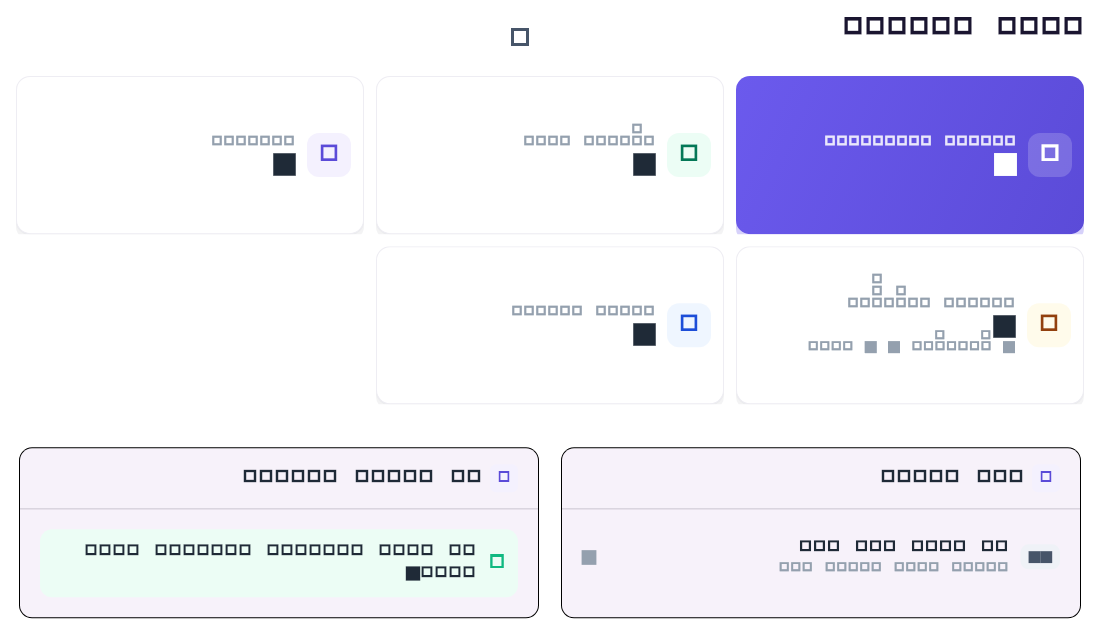
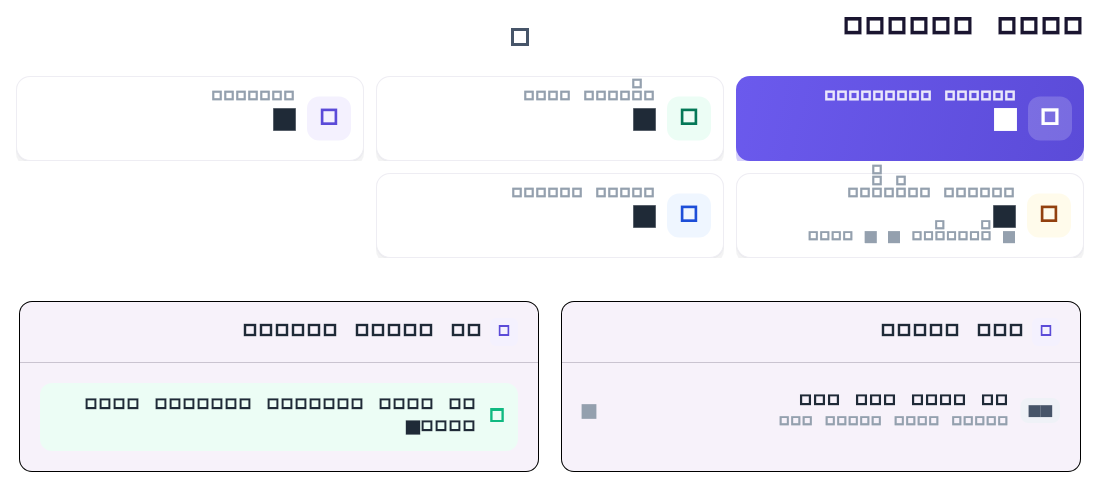
fix(dashboard): tiles sized to content, sales tile same height with no data
Owner 2026-10-02: fixed-aspect grid left white bands and the sales tile
(no sub line yet) rendered shorter (92 vs 119 px). AutoHeightGrid rows +
an always-laid-out sub line: every tile 111 px at 360 px, equal heights.

diff --git a/test/cards_totals_day_month_picker_test.dart b/test/cards_totals_day_month_picker_test.dart
@@ -16,29 +16,39 @@ void main() {
   testWidgets('day tile opens a date picker and reports the picked day',
       (tester) async {
     String? day;
-    await tester.pumpWidget(_wrap(CardsListTotals(
-      totals: CardBatchOperationsTotals(usedToday: 3, valueToday: 15),
-      onPickDay: (d) => day = d,
-      onPickMonth: (_) {},
-    )));
+    await tester.pumpWidget(
+      _wrap(
+        CardsListTotals(
+          totals: CardBatchOperationsTotals(usedToday: 3, valueToday: 15),
+          onPickDay: (d) => day = d,
+          onPickMonth: (_) {},
+        ),
+      ),
+    );
     await tester.tap(find.text('بطاقات اليوم'));
     await tester.pumpAndSettle();
     expect(find.byType(DatePickerDialog), findsOneWidget);
     await tester.tap(find.text('OK'));
     await tester.pumpAndSettle();
     final now = DateTime.now();
-    expect(day,
-        '${now.year}-${now.month.toString().padLeft(2, '0')}-${now.day.toString().padLeft(2, '0')}');
+    expect(
+      day,
+      '${now.year}-${now.month.toString().padLeft(2, '0')}-${now.day.toString().padLeft(2, '0')}',
+    );
   });
 
   testWidgets('month tile opens a month grid and reports YYYY-MM',
       (tester) async {
     String? month;
-    await tester.pumpWidget(_wrap(CardsListTotals(
-      totals: CardBatchOperationsTotals(usedMonth: 9, valueMonth: 45),
-      onPickDay: (_) {},
-      onPickMonth: (m) => month = m,
-    )));
+    await tester.pumpWidget(
+      _wrap(
+        CardsListTotals(
+          totals: CardBatchOperationsTotals(usedMonth: 9, valueMonth: 45),
+          onPickDay: (_) {},
+          onPickMonth: (m) => month = m,
+        ),
+      ),
+    );
     await tester.tap(find.text('بطاقات الشهر'));
     await tester.pumpAndSettle();
     expect(find.text('اختر الشهر'), findsOneWidget);
@@ -48,11 +58,16 @@ void main() {
   });
 
   testWidgets('a picked past day/month is named on the tile', (tester) async {
-    await tester.pumpWidget(_wrap(CardsListTotals(
-      totals: CardBatchOperationsTotals(day: '2026-09-10', month: '2026-08'),
-      onPickDay: (_) {},
-      onPickMonth: (_) {},
-    )));
+    await tester.pumpWidget(
+      _wrap(
+        CardsListTotals(
+          totals:
+              CardBatchOperationsTotals(day: '2026-09-10', month: '2026-08'),
+          onPickDay: (_) {},
+          onPickMonth: (_) {},
+        ),
+      ),
+    );
     expect(find.text('بطاقات 2026-09-10'), findsOneWidget);
     expect(find.text('بطاقات أغسطس 2026'), findsOneWidget);
   });
@@ -62,9 +77,13 @@ void main() {
     tester.view.physicalSize = const Size(360, 800);
     tester.view.devicePixelRatio = 1;
     addTearDown(tester.view.reset);
-    await tester.pumpWidget(_wrap(CardsListTotals(
-      totals: CardBatchOperationsTotals(configuredValue: 102815.4),
-    )));
+    await tester.pumpWidget(
+      _wrap(
+        CardsListTotals(
+          totals: CardBatchOperationsTotals(configuredValue: 102815.4),
+        ),
+      ),
+    );
     expect(find.text('قيمة كل كروت الحزم'), findsOneWidget);
     expect(find.text('بسعر البيع، المباع وغير المباع'), findsOneWidget);
     final value = tester.widget<Text>(find.textContaining('102,815.4'));
@@ -75,19 +94,24 @@ void main() {
   testWidgets('«المبيعات» tile picks a period and shows its sales',
       (tester) async {
     String? from, to;
-    await tester.pumpWidget(_wrap(CardsListTotals(
-      totals: CardBatchOperationsTotals(
-          usedRange: 7,
-          valueRange: 35,
-          rangeFrom: '2026-09-01',
-          rangeTo: '2026-09-07'),
-      onPickDay: (_) {},
-      onPickMonth: (_) {},
-      onPickRange: (f, t) {
-        from = f;
-        to = t;
-      },
-    )));
+    await tester.pumpWidget(
+      _wrap(
+        CardsListTotals(
+          totals: CardBatchOperationsTotals(
+            usedRange: 7,
+            valueRange: 35,
+            rangeFrom: '2026-09-01',
+            rangeTo: '2026-09-07',
+          ),
+          onPickDay: (_) {},
+          onPickMonth: (_) {},
+          onPickRange: (f, t) {
+            from = f;
+            to = t;
+          },
+        ),
+      ),
+    );
     expect(find.text('مبيعات 09-01 ← 09-07'), findsOneWidget);
     expect(find.text('7 بطاقة'), findsOneWidget);
     await tester.tap(find.text('مبيعات 09-01 ← 09-07'));
@@ -105,9 +129,13 @@ void main() {
 
   testWidgets('older server (no used_range) keeps the total-value tile',
       (tester) async {
-    await tester.pumpWidget(_wrap(CardsListTotals(
-      totals: CardBatchOperationsTotals(configuredValue: 10),
-    )));
+    await tester.pumpWidget(
+      _wrap(
+        CardsListTotals(
+          totals: CardBatchOperationsTotals(configuredValue: 10),
+        ),
+      ),
+    );
     expect(find.text('قيمة كل كروت الحزم'), findsOneWidget);
   });
 }

diff --git a/lib/features/dashboard/presentation/dashboard_screen.dart b/lib/features/dashboard/presentation/dashboard_screen.dart
@@ -11,6 +11,7 @@ import '../../../core/theme/app_palette.dart';
 import '../../../core/theme/tokens.dart';
 import '../../../core/theme/typography.dart';
 import '../../../shared/widgets/app_card.dart';
+import '../../../shared/widgets/auto_height_grid.dart';
 import '../../../shared/widgets/hub_error_state.dart';
 import '../../../shared/widgets/page_header.dart';
 import '../data/dashboard_repository.dart';
@@ -843,21 +844,17 @@ class _MetricGrid extends StatelessWidget {
             : c.maxWidth >= 760
                 ? 3
                 : 2;
-        return GridView.count(
-          shrinkWrap: true,
-          physics: const NeverScrollableScrollPhysics(),
-          crossAxisCount: cols,
-          mainAxisSpacing: AppTokens.s12,
-          crossAxisSpacing: AppTokens.s12,
-          // Denser tiles: the compact layout (icon+label row, then value/sub)
-          // needs far less height than the old stacked one, so widen the ratio
-          // to cut the empty white space the square cells used to leave.
-          childAspectRatio: c.maxWidth < 520
-              ? 1.3
-              : c.maxWidth < 760
-                  ? 1.6
-                  : 2.2,
-          children: tiles,
+        // Owner 2026-10-02: tiles are as tall as their content (no fixed
+        // aspect ratio → no empty white band); each row shares the tallest
+        // tile's height so the sales tile never looks shorter.
+        final tileWidth = (c.maxWidth - AppTokens.s12 * (cols - 1)) / cols;
+        return _TileCompact(
+          compact: tileWidth < 180,
+          child: AutoHeightGrid(
+            columns: cols,
+            spacing: AppTokens.s12,
+            children: tiles,
+          ),
         );
       },
     );
@@ -896,6 +893,21 @@ class _TapCard extends StatelessWidget {
       ),
     );
   }
+}
+
+/// Tells the metric tiles whether they are in the narrow (phone) layout —
+/// decided once by the grid, since a LayoutBuilder inside a tile breaks the
+/// intrinsic sizing that lets each row fit its content.
+class _TileCompact extends InheritedWidget {
+  const _TileCompact({required this.compact, required super.child});
+  final bool compact;
+
+  static bool of(BuildContext context) =>
+      context.dependOnInheritedWidgetOfExactType<_TileCompact>()?.compact ??
+      false;
+
+  @override
+  bool updateShouldNotify(_TileCompact old) => old.compact != compact;
 }
 
 class _MetricTile extends StatelessWidget {
@@ -963,9 +975,9 @@ class _MetricTile extends StatelessWidget {
               ]
             : p.shCard,
       ),
-      child: LayoutBuilder(
-        builder: (context, constraints) {
-          final compact = constraints.maxWidth < 180;
+      child: Builder(
+        builder: (context) {
+          final compact = _TileCompact.of(context);
           final iconBox = Container(
             width: compact ? 36 : 44,
             height: compact ? 36 : 44,
@@ -997,18 +1009,18 @@ class _MetricTile extends StatelessWidget {
               fontSize: 22,
             ),
           );
-          final subWidget = sub != null
-              ? Text(
-                  sub!,
-                  maxLines: 1,
-                  overflow: TextOverflow.ellipsis,
-                  style: AppTypography.caption.copyWith(
-                    color: primary
-                        ? Colors.white.withValues(alpha: 0.78)
-                        : p.textMuted,
-                  ),
-                )
-              : null;
+          // The sub line is always laid out (blank when there is nothing to
+          // say) so every tile — the sales one with no data yet included —
+          // keeps the same height.
+          final subWidget = Text(
+            sub ?? ' ',
+            maxLines: 1,
+            overflow: TextOverflow.ellipsis,
+            style: AppTypography.caption.copyWith(
+              color:
+                  primary ? Colors.white.withValues(alpha: 0.78) : p.textMuted,
+            ),
+          );
 
           // Compact (phone): icon + label share the top row, the number and
           // details sit just below with tight spacing — no filler gap.
@@ -1029,10 +1041,8 @@ class _MetricTile extends StatelessWidget {
                   ),
                   const SizedBox(height: AppTokens.s8),
                   valueWidget,
-                  if (subWidget != null) ...[
-                    const SizedBox(height: 2),
-                    subWidget,
-                  ],
+                  const SizedBox(height: 2),
+                  subWidget,
                 ],
               ),
             );
@@ -1045,7 +1055,7 @@ class _MetricTile extends StatelessWidget {
               labelWidget,
               const SizedBox(height: 2),
               valueWidget,
-              if (subWidget != null) subWidget,
+              subWidget,
             ],
           );
           return Padding(

diff --git a/test/dashboard_screen_test.dart b/test/dashboard_screen_test.dart
@@ -89,7 +89,8 @@ void main() {
     // Alerts card + messages.
     expect(find.text('ما يحتاج انتباه'), findsOneWidget);
     expect(find.text('5 مشترك ينتهي اشتراكهم خلال 3 أيام.'), findsOneWidget);
-    expect(find.text('لا توجد كروت متاحة — وَلِّد دفعة جديدة.'), findsOneWidget);
+    expect(
+        find.text('لا توجد كروت متاحة — وَلِّد دفعة جديدة.'), findsOneWidget,);
 
     // Subscriber attention + top plan surfaced.
     expect(find.text('متابعة المشتركين'), findsOneWidget);
@@ -128,7 +129,8 @@ void main() {
     }
   });
 
-  testWidgets('hides the sales_today tile when the server omits it (old '
+  testWidgets(
+      'hides the sales_today tile when the server omits it (old '
       'server)', (tester) async {
     await _pumpDashboard(
       tester,
@@ -158,17 +160,54 @@ void main() {
     final metrics = DashboardMetrics.fromJson({
       'subscribers': {'total': 200, 'active': 150, 'expired': 12},
       'cards': {'total': 5000, 'used': 331, 'available': 4669, 'batches': 9},
-      'plans': {'total': 7, 'enabled': 6, 'top': {'name': 'باقة الذهبية', 'subs': 64}},
+      'plans': {
+        'total': 7,
+        'enabled': 6,
+        'top': {'name': 'باقة الذهبية', 'subs': 64},
+      },
       'nas': {'total': 4, 'enabled': 3},
       'system': {'db_ok': true, 'radius_ok': false, 'cpu_pct': 23.0},
       'recent_batches': [
-        {'id': 42, 'batch_code': 'B-0042', 'package_name': 'باقة 10 جيجا', 'count': 100, 'used': 37},
+        {
+          'id': 42,
+          'batch_code': 'B-0042',
+          'package_name': 'باقة 10 جيجا',
+          'count': 100,
+          'used': 37,
+        },
       ],
       'alerts': [
         {'level': 'warn', 'message': '7 مشتركين ينتهي اشتراكهم خلال 3 أيام.'},
       ],
     });
     await _pumpDashboard(tester, metrics, size: const Size(360, 1600));
+    expect(tester.takeException(), isNull);
+  });
+
+  // Owner 2026-10-02: tiles are only as tall as their content (no white
+  // band), and the sales tile keeps the same height with no sales yet.
+  testWidgets(
+      'sales tile with no data is as tall as its neighbour, no '
+      'white space', (tester) async {
+    final metrics = DashboardMetrics.fromJson({
+      'nas': {'total': 4, 'enabled': 3},
+      'sales_today': {
+        'date': '2026-10-02',
+        'cards_count': 0,
+        'money_visible': true,
+        'by_currency': [],
+      },
+    });
+    await _pumpDashboard(tester, metrics, size: const Size(360, 1600));
+    Size tile(String label) => tester.getSize(
+          find
+              .ancestor(of: find.text(label), matching: find.byType(InkWell))
+              .first,
+        );
+    final nas = tile('أجهزة الشبكة');
+    final sales = tile('إجمالي مبيعات اليوم');
+    expect(sales.height, nas.height);
+    expect(nas.height, lessThan(115));
     expect(tester.takeException(), isNull);
   });
 }
